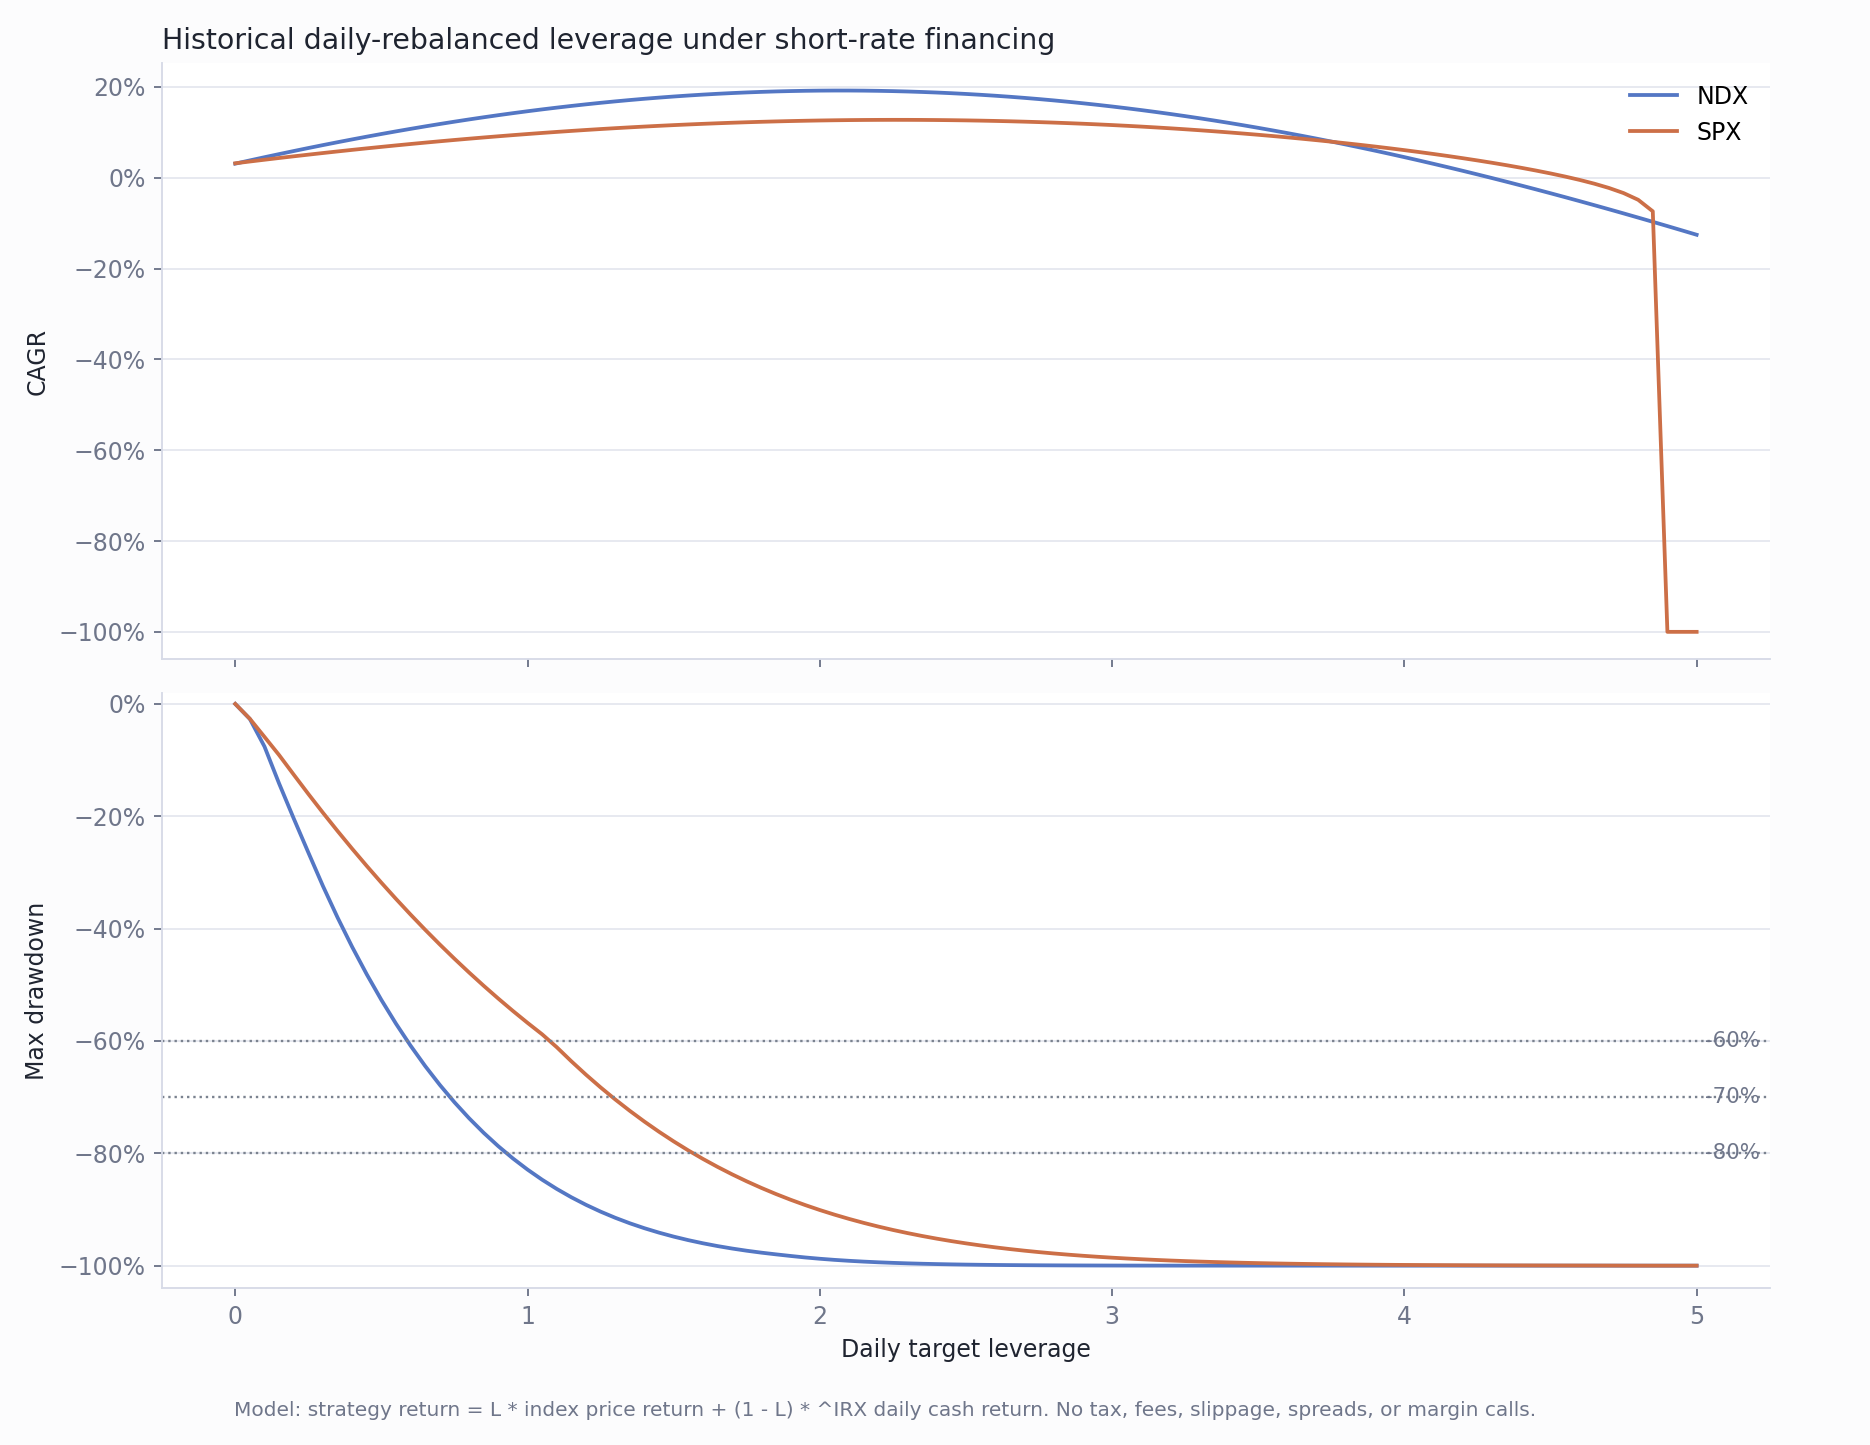
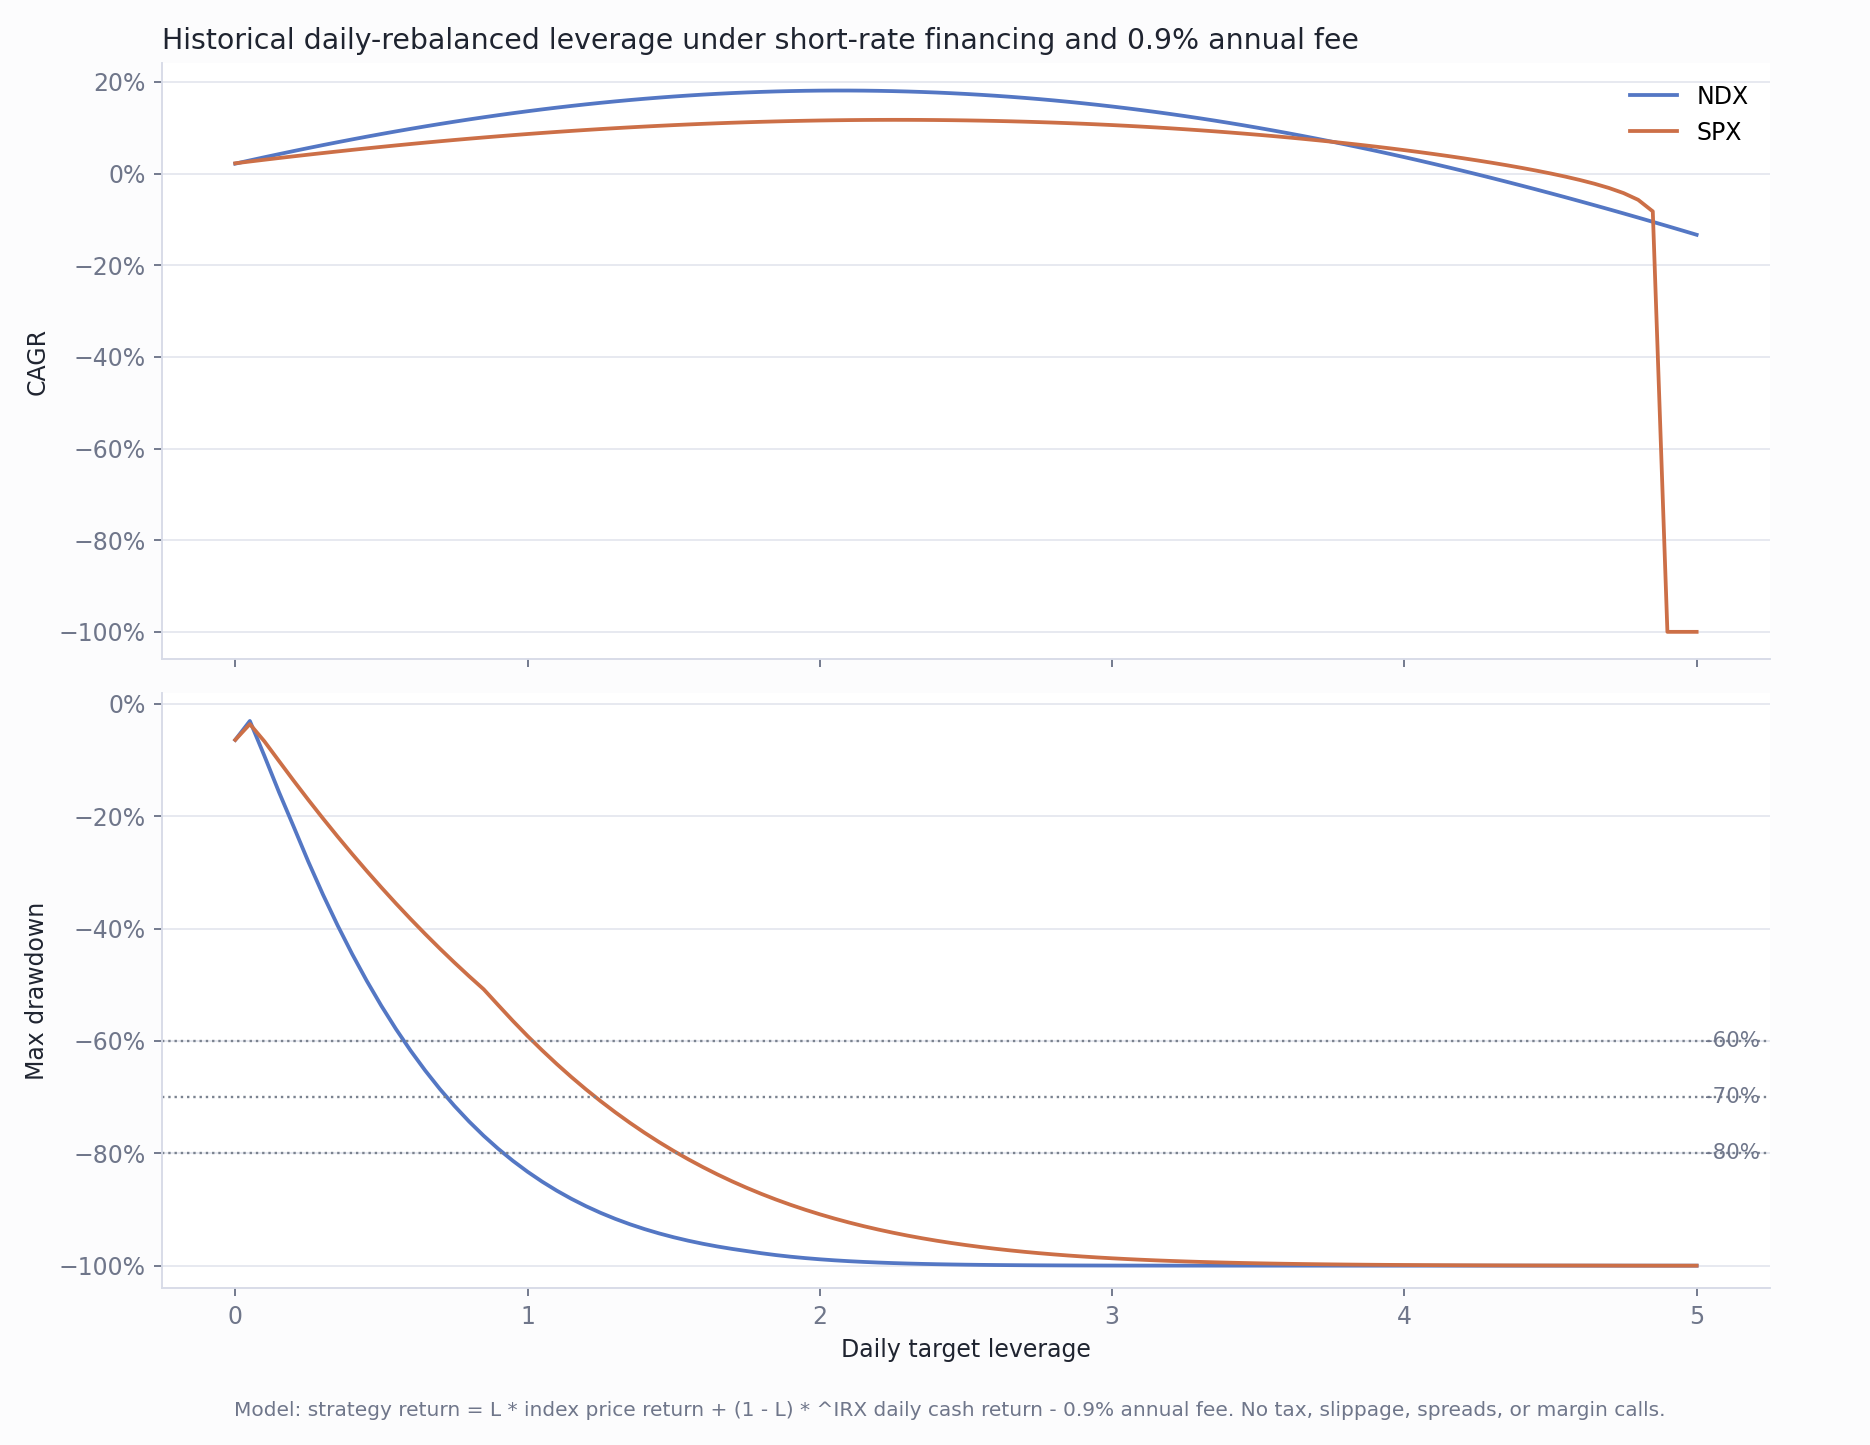
Update leverage study with fees and baseline comparison

diff --git a/optimal-leverage-rates/scripts/optimal_leverage_rates.py b/optimal-leverage-rates/scripts/optimal_leverage_rates.py
@@ -31,6 +31,7 @@ END = datetime.now(timezone.utc)
 TRADING_DAYS = 252
 LEVERAGE_GRID = np.round(np.arange(0.0, 5.0001, 0.05), 2)
 DD_LIMITS = [0.60, 0.70, 0.80]
+DEFAULT_ANNUAL_FEE = 0.009
 
 TOKENS = {
     "ink": "#1F2430",
@@ -53,6 +54,7 @@ def parse_args() -> argparse.Namespace:
     parser.add_argument("--write-tables", action="store_true", help="Write CSV result tables under outputs/.")
     parser.add_argument("--max-leverage", type=float, default=5.0, help="Maximum leverage to evaluate.")
     parser.add_argument("--step", type=float, default=0.05, help="Leverage grid step.")
+    parser.add_argument("--annual-fee", type=float, default=DEFAULT_ANNUAL_FEE, help="Annual fee drag deducted daily, e.g. 0.009 for 0.9%.")
     return parser.parse_args()
 
 
@@ -107,11 +109,35 @@ def max_drawdown(nav: pd.Series) -> tuple[float, pd.Timestamp, pd.Timestamp]:
     return float(dd.min()), peak, trough
 
 
-def simulate(asset_name: str, asset: pd.DataFrame, rates: pd.DataFrame, grid: np.ndarray) -> tuple[pd.DataFrame, pd.DataFrame]:
+def baseline_stats(asset_name: str, asset: pd.DataFrame) -> dict:
+    df = asset[["date", "price"]].sort_values("date").copy()
+    returns = df["price"].pct_change()
+    valid = df.loc[returns.notna(), ["date"]].copy()
+    valid["return"] = returns.loc[returns.notna()].to_numpy()
+    nav = (1 + valid["return"]).cumprod()
+    years = (valid["date"].iloc[-1] - valid["date"].iloc[0]).days / 365.25
+    high = nav.cummax()
+    dd = nav / high - 1
+    trough_pos = dd.idxmin()
+    peak_pos = nav.loc[:trough_pos].idxmax()
+    return {
+        "asset": asset_name,
+        "start": valid["date"].iloc[0],
+        "end": valid["date"].iloc[-1],
+        "final_multiple": float(nav.iloc[-1]),
+        "cagr": float(nav.iloc[-1] ** (1 / years) - 1),
+        "max_drawdown": float(dd.min()),
+        "peak_date": valid.loc[peak_pos, "date"],
+        "trough_date": valid.loc[trough_pos, "date"],
+    }
+
+
+def simulate(asset_name: str, asset: pd.DataFrame, rates: pd.DataFrame, grid: np.ndarray, annual_fee: float) -> tuple[pd.DataFrame, pd.DataFrame]:
     df = asset[["date", "price"]].merge(rates[["date", "irx_pct"]], on="date", how="left").sort_values("date")
     df["irx_pct"] = df["irx_pct"].ffill().bfill()
     df["asset_return"] = df["price"].pct_change()
     df["rf_daily"] = (1 + df["irx_pct"] / 100.0) ** (1 / TRADING_DAYS) - 1
+    fee_daily = (1 + annual_fee) ** (1 / TRADING_DAYS) - 1
     df = df.dropna(subset=["asset_return", "rf_daily"]).reset_index(drop=True)
 
     rows = []
@@ -119,7 +145,7 @@ def simulate(asset_name: str, asset: pd.DataFrame, rates: pd.DataFrame, grid: np
     years = (df["date"].iloc[-1] - df["date"].iloc[0]).days / 365.25
 
     for leverage in grid:
-        strategy_return = leverage * df["asset_return"] + (1 - leverage) * df["rf_daily"]
+        strategy_return = leverage * df["asset_return"] + (1 - leverage) * df["rf_daily"] - fee_daily
         ruined_mask = strategy_return <= -1
         ruined = bool(ruined_mask.any())
         if ruined:
@@ -151,6 +177,7 @@ def simulate(asset_name: str, asset: pd.DataFrame, rates: pd.DataFrame, grid: np
             {
                 "asset": asset_name,
                 "leverage": leverage,
+                "annual_fee": annual_fee,
                 "final_multiple": final_multiple,
                 "cagr": cagr,
                 "ann_vol": ann_vol,
@@ -187,7 +214,7 @@ def pick_best(results: pd.DataFrame) -> pd.DataFrame:
     return pd.DataFrame(picks)
 
 
-def plot_results(results: pd.DataFrame) -> Path:
+def plot_results(results: pd.DataFrame, annual_fee: float) -> Path:
     plt.rcParams.update(
         {
             "figure.facecolor": "#FCFCFD",
@@ -210,7 +237,12 @@ def plot_results(results: pd.DataFrame) -> Path:
         axes[0].plot(group["leverage"], group["cagr"], label=asset, color=colors[asset], linewidth=1.6)
         axes[1].plot(group["leverage"], group["max_drawdown"], label=asset, color=colors[asset], linewidth=1.6)
 
-    axes[0].set_title("Historical daily-rebalanced leverage under short-rate financing", loc="left", color=TOKENS["ink"])
+    fee_pct = annual_fee * 100
+    axes[0].set_title(
+        f"Historical daily-rebalanced leverage under short-rate financing and {fee_pct:.1f}% annual fee",
+        loc="left",
+        color=TOKENS["ink"],
+    )
     axes[0].set_ylabel("CAGR")
     axes[0].yaxis.set_major_formatter(mticker.PercentFormatter(1.0))
     axes[0].grid(True, axis="y")
@@ -228,7 +260,7 @@ def plot_results(results: pd.DataFrame) -> Path:
     fig.text(
         0.125,
         0.02,
-        "Model: strategy return = L * index price return + (1 - L) * ^IRX daily cash return. No tax, fees, slippage, spreads, or margin calls.",
+        f"Model: strategy return = L * index price return + (1 - L) * ^IRX daily cash return - {fee_pct:.1f}% annual fee. No tax, slippage, spreads, or margin calls.",
         color=TOKENS["muted"],
         fontsize=8.5,
     )
@@ -249,7 +281,7 @@ def write_report(summary: pd.DataFrame, picks: pd.DataFrame, asset_frames: dict[
     lines = [
         "# Optimal Leverage Under Historical Short Rates",
         "",
-        "This study estimates daily-rebalanced leverage for NDX and SPX using historical index price returns and Yahoo `^IRX` 13-week Treasury bill yield as the cash/financing proxy.",
+        "This study estimates daily-rebalanced leverage for NDX and SPX using historical index price returns, Yahoo `^IRX` 13-week Treasury bill yield as the cash/financing proxy, and a 0.9% annual fee drag.",
         "",
         "## Headline Results",
         "",
@@ -295,7 +327,8 @@ def write_report(summary: pd.DataFrame, picks: pd.DataFrame, asset_frames: dict[
             "",
             "- Data source: Yahoo Finance Chart API for `^NDX`, `^GSPC`, and `^IRX`.",
             "- Rate proxy: `^IRX` close, interpreted as an annualized short Treasury yield and converted to a daily cash return with `(1 + yield) ** (1 / 252) - 1`.",
-            "- Daily leveraged return: `L * index_return + (1 - L) * rf_daily`.",
+            "- Daily leveraged return: `L * index_return + (1 - L) * rf_daily - fee_daily`.",
+            "- Fee assumption: 0.9% annual fee, deducted daily.",
             "- Grid: daily target leverage from 0x to 5x in 0.05x increments.",
             "- Index returns are price-index returns, not total-return indices. This understates SPX relative to a dividend-reinvested implementation and should be upgraded if total-return data is added.",
             "- No taxes, commissions, bid/ask spread, financing spread over Treasury bills, ETF fees, tracking error, or margin liquidation mechanics are modeled.",
@@ -328,30 +361,36 @@ def main() -> None:
     asset_frames = {}
     result_frames = []
     nav_frames = []
+    baseline_rows = []
     for asset_name, symbol in ASSETS.items():
         payload = yahoo_chart(symbol, args.refresh, args.cache_data)
         asset_frames[asset_name] = parse_chart(payload, "price")
+        baseline_rows.append(baseline_stats(asset_name, asset_frames[asset_name]))
 
     rates = parse_chart(yahoo_chart(RATE_SYMBOL, args.refresh, args.cache_data), "irx_pct")[["date", "irx_pct", "close"]]
     rates = rates.dropna(subset=["irx_pct"]).sort_values("date")
 
     for asset_name, frame in asset_frames.items():
-        results, nav = simulate(asset_name, frame, rates, grid)
+        results, nav = simulate(asset_name, frame, rates, grid, args.annual_fee)
         result_frames.append(results)
         nav_frames.append(nav)
 
     results = pd.concat(result_frames, ignore_index=True)
     picks = pick_best(results)
+    baselines = pd.DataFrame(baseline_rows)
 
     if args.write_tables:
         results.to_csv(OUT / "optimal_leverage_grid.csv", index=False)
         picks.to_csv(OUT / "optimal_leverage_picks.csv", index=False)
+        baselines.to_csv(OUT / "baseline_index_returns.csv", index=False)
         pd.concat(nav_frames, axis=1, sort=True).to_csv(OUT / "optimal_leverage_nav_paths.csv")
         rates.to_csv(OUT / "irx_rates_used.csv", index=False)
-    plot_results(results)
+    plot_results(results, args.annual_fee)
 
     display_cols = ["asset", "criterion", "leverage", "cagr", "ann_vol", "max_drawdown", "final_multiple", "ruined"]
     print(picks[display_cols].to_string(index=False))
+    print("\nBaseline 1x index price paths, no fee:")
+    print(baselines[["asset", "start", "end", "final_multiple", "cagr", "max_drawdown"]].to_string(index=False))
     print("Outputs:", OUT)
 
 

diff --git a/optimal-leverage-rates/README.md b/optimal-leverage-rates/README.md
@@ -1,35 +1,43 @@
 # 历史利率条件下的 NDX/SPX 最佳杠杆率
 
-本研究用 NDX/SPX 指数价格收益和 Yahoo `^IRX` 13 周国库券收益率，估算不同每日再平衡杠杆在历史短端利率条件下的表现。
+本研究用 NDX/SPX 指数价格收益和 Yahoo `^IRX` 13 周国库券收益率，估算不同每日再平衡杠杆在历史短端利率条件下的表现。模拟加入年化 `0.9%` 费率拖累，并按交易日每日扣除。
+
+样本起点：
+
+- `NDX`：1985-10-02
+- `SPX`：1985-01-03
+- 利率代理 `^IRX`：1985-01-02
 
 ## 主要结论
 
-最大化历史 CAGR 会选择很高的杠杆：
+最大化历史 CAGR 会选择很高的杠杆。下表先给出同一收益序列下的 1x 指数价格路径作为 baseline；baseline 不扣 `0.9%` 费率，杠杆策略扣费。
 
-| 标的 | 最大 CAGR 杠杆 | CAGR | 最大回撤 |
-|---|---:|---:|---:|
-| NDX | 2.05x | 19.2% | -99.0% |
-| SPX | 2.25x | 12.7% | -93.6% |
+| 标的 | 样本 | 1x 指数倍数 | CAGR | 最大回撤 |
+|---|---|---:|---:|---:|
+| NDX | 1985-10-02 至 2026-07-02 | 261.54x | 14.6% | -82.9% |
+| SPX | 1985-01-03 至 2026-07-02 | 45.25x | 9.6% | -56.8% |
 
-但这类路径有接近清零的历史回撤，更适合作为理论上限，不适合作为直接配置建议。回撤约束下的结果更实用：
+最大 CAGR 杠杆策略相对 baseline 的变化：
 
-| 回撤约束 | NDX 最佳杠杆 | SPX 最佳杠杆 |
-|---|---:|---:|
-| 最大回撤不超过 60% | 0.55x | 1.05x |
-| 最大回撤不超过 70% | 0.70x | 1.25x |
-| 最大回撤不超过 80% | 0.90x | 1.55x |
+| 标的 | 最大 CAGR 杠杆 | 策略倍数 | 策略 CAGR | 策略最大回撤 | 相对 1x 指数 |
+|---|---:|---:|---:|---:|---|
+| NDX | 2.05x | 889.88x | 18.1% | -99.0% | 终值 `3.40x`，CAGR `+3.5pct`，回撤加深 `16.1pct` |
+| SPX | 2.25x | 99.94x | 11.7% | -94.1% | 终值 `2.21x`，CAGR `+2.1pct`，回撤加深 `37.3pct` |
+
+但这类路径有接近清零的历史回撤，更适合作为理论上限，不适合作为直接配置建议。
 
 ![NDX/SPX 最佳杠杆率](outputs/optimal_leverage_rates.png)
 
 ## 方法
 
 ```text
-strategy_return = L * index_return + (1 - L) * rf_daily
+strategy_return = L * index_return + (1 - L) * rf_daily - fee_daily
 ```
 
 - 数据源：Yahoo Finance Chart API。
 - 标的：`^NDX`、`^GSPC`。
 - 利率代理：`^IRX`，转换为每日现金/融资收益。
+- 费率：年化 0.9%，按 252 个交易日折算为每日费用扣除。
 - 杠杆网格：0x 到 5x，步长 0.05x。
 - 默认只保存图表，不保存原始数据和 CSV 表格。
 
@@ -53,4 +61,4 @@ python scripts\optimal_leverage_rates.py --write-tables
 
 ## 限制
 
-这里使用的是价格指数，不是总回报指数；这会低估含股息再投资的 SPX 实现。模型没有计入税、佣金、滑点、融资利差、ETF 费用、保证金规则变化或强平机制。
+这里使用的是价格指数，不是总回报指数；这会低估含股息再投资的 SPX 实现。模型已扣除 0.9% 年化费率，但没有计入税、佣金、滑点、融资利差、保证金规则变化或强平机制。

diff --git a/README.md b/README.md
@@ -36,20 +36,37 @@ optimal-leverage-rates/   # 历史利率条件下 NDX/SPX 最佳杠杆率
 
 ## 3. 历史利率条件下 NDX/SPX 最佳杠杆率
 
-这项研究用 NDX/SPX 指数价格收益和 Yahoo `^IRX` 13 周国库券收益率作为现金/融资代理，模拟每日再平衡杠杆：
+这项研究用 NDX/SPX 指数价格收益和 Yahoo `^IRX` 13 周国库券收益率作为现金/融资代理，模拟每日再平衡杠杆，并加入年化 `0.9%` 费率拖累。
+
+样本起点：
+
+- `NDX`：1985-10-02
+- `SPX`：1985-01-03
+- 利率代理 `^IRX`：1985-01-02
+
+终点 2026-07-02
 
 ```text
-strategy_return = L * index_return + (1 - L) * rf_daily
+strategy_return = L * index_return + (1 - L) * rf_daily - fee_daily
 ```
 
-最大化历史 CAGR 得到的杠杆非常激进：
+其中 `fee_daily` 为年化 `0.9%` 按 252 个交易日折算后的每日费用。
 
-| 标的 | 最大 CAGR 杠杆 | CAGR | 最大回撤 |
+下表先给出同一收益序列下的 1x 指数价格路径作为 baseline；baseline 不扣 `0.9%` 费率，杠杆策略扣费。
+
+| 标的 | 1x 指数倍数 | CAGR | 最大回撤 |
 |---|---:|---:|---:|
-| NDX | 2.05x | 19.2% | -99.0% |
-| SPX | 2.25x | 12.7% | -93.6% |
+| NDX | 261.54x | 14.6% | -82.9% |
+| SPX | 45.25x | 9.6% | -56.8% |
 
-重要限制：这里使用的是 NDX/SPX 价格指数，不是总回报指数；这会低估含股息再投资的 SPX 实现。模型也没有计入税、滑点、佣金、ETF 费用、融资利差、保证金规则变化或强平机制。
+最大 CAGR 杠杆策略相对 baseline 的变化：
+
+| 标的 | 最大 CAGR 杠杆 | 策略倍数 | 策略 CAGR | 策略最大回撤 | 相对 1x 指数 |
+|---|---:|---:|---:|---:|---|
+| NDX | 2.05x | 889.88x | 18.1% | -99.0% | 终值 `3.40x`，CAGR `+3.5pct`，回撤加深 `16.1pct` |
+| SPX | 2.25x | 99.94x | 11.7% | -94.1% | 终值 `2.21x`，CAGR `+2.1pct`，回撤加深 `37.3pct` |
+
+重要限制：这里使用的是 NDX/SPX 价格指数，不是总回报指数；这会低估含股息再投资的指数回报。模型已扣除 `0.9%` 年化费率，但没有计入税、滑点、佣金、融资利差、保证金规则变化或强平机制。
 
 ## 复现
 
@@ -89,4 +106,3 @@ Set-Location nq-leverage
 python final_tqqq_mnq_badj_analysis.py
 python final_rebalance_badj_analysis.py
 ```
-